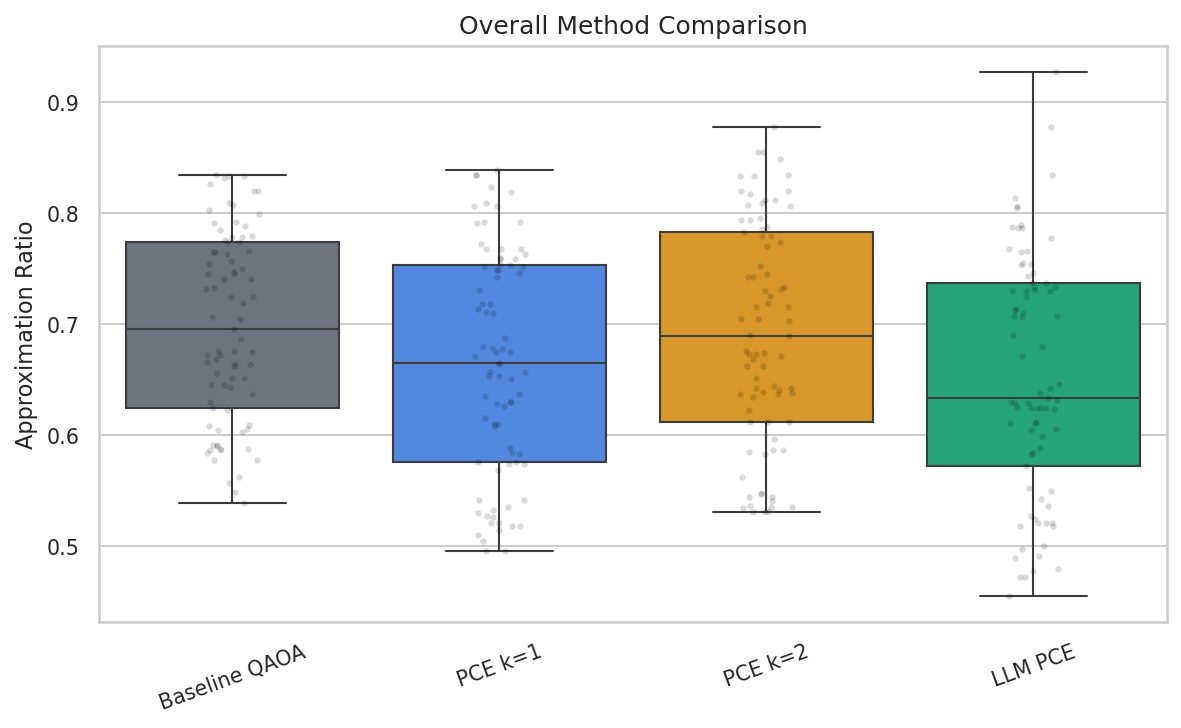
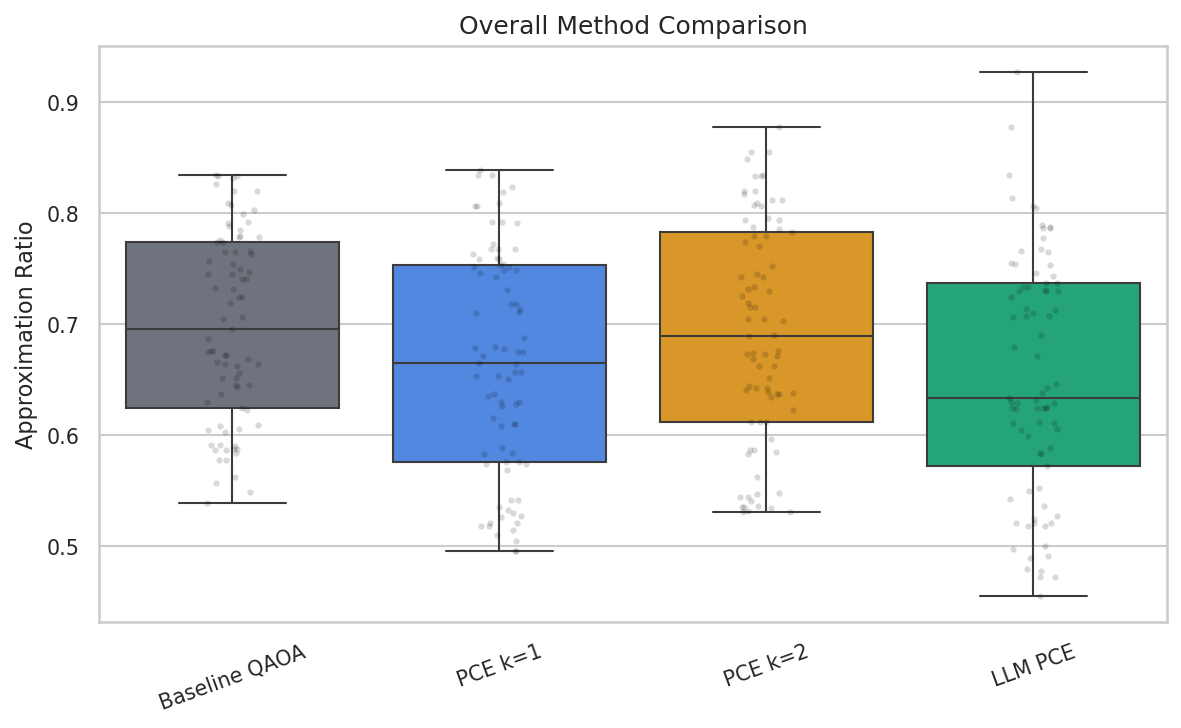
Phase 3 audit: clean up dead code, remove unused CLI arg, verify data integrity
- Remove dead loop in aggregate_results.py (leftover from debugging)
- Fix docstring in patterns.py to reflect all 5 pattern categories
- Remove unused --format CLI arg from plots.py
- Verified: all 324 index CSV pairs match parquet exactly (max diff = 0.0)
- Verified: all 40 columns are populated from real experiment data

diff --git a/src/analysis/patterns.py b/src/analysis/patterns.py
@@ -1,12 +1,13 @@
 """Pattern mining for QLLM — statistical & ML analysis to discover interpretable
 structural patterns in the QAOA/PCE design space.
 
-Mines three categories of patterns:
+Mines five categories of patterns:
 
-    1. Feature regime → preferred k (which k gives the best approximation ratio
-       depending on graph features).
-    2. Feature regime → Pauli layout that avoids vanishing gradients.
-    3. Pauli distributions → higher gradient magnitudes / better approximation.
+    1. Feature regime → preferred k.
+    2. Feature regime → gradient health.
+    3. Pauli layout distribution → approximation ratio / gradient norm.
+    4. Compression ratio vs performance trade-off.
+    5. Family-level method comparison.
 
 Usage
 -----

diff --git a/src/analysis/aggregate_results.py b/src/analysis/aggregate_results.py
@@ -322,11 +322,6 @@ def aggregate(skip_llm: bool = False, verbose: bool = True) -> pd.DataFrame:
         print(f"  Aggregated {len(df)} total rows ({len(all_graph_ids)} graphs × {len(methods)} methods).")
         for m in methods:
             print(f"    {m}: {counts[m]} rows")
-        # Check for missing
-        for gid in all_graph_ids:
-            for m in methods:
-                if counts[m] == 0 and m not in ("pce_baseline_k1", "pce_baseline_k2"):
-                    continue
 
     return df
 

diff --git a/src/analysis/plots.py b/src/analysis/plots.py
@@ -505,9 +505,6 @@ if __name__ == "__main__":
                         help="Path to patterns.json")
     parser.add_argument("--output", type=str, default=None,
                         help="Plot output directory")
-    parser.add_argument("--format", type=str, default="png",
-                        choices=["png", "pdf", "svg"],
-                        help="Output format (default: png)")
     args = parser.parse_args()
 
     save_dir = Path(args.output) if args.output else PLOTS_DIR